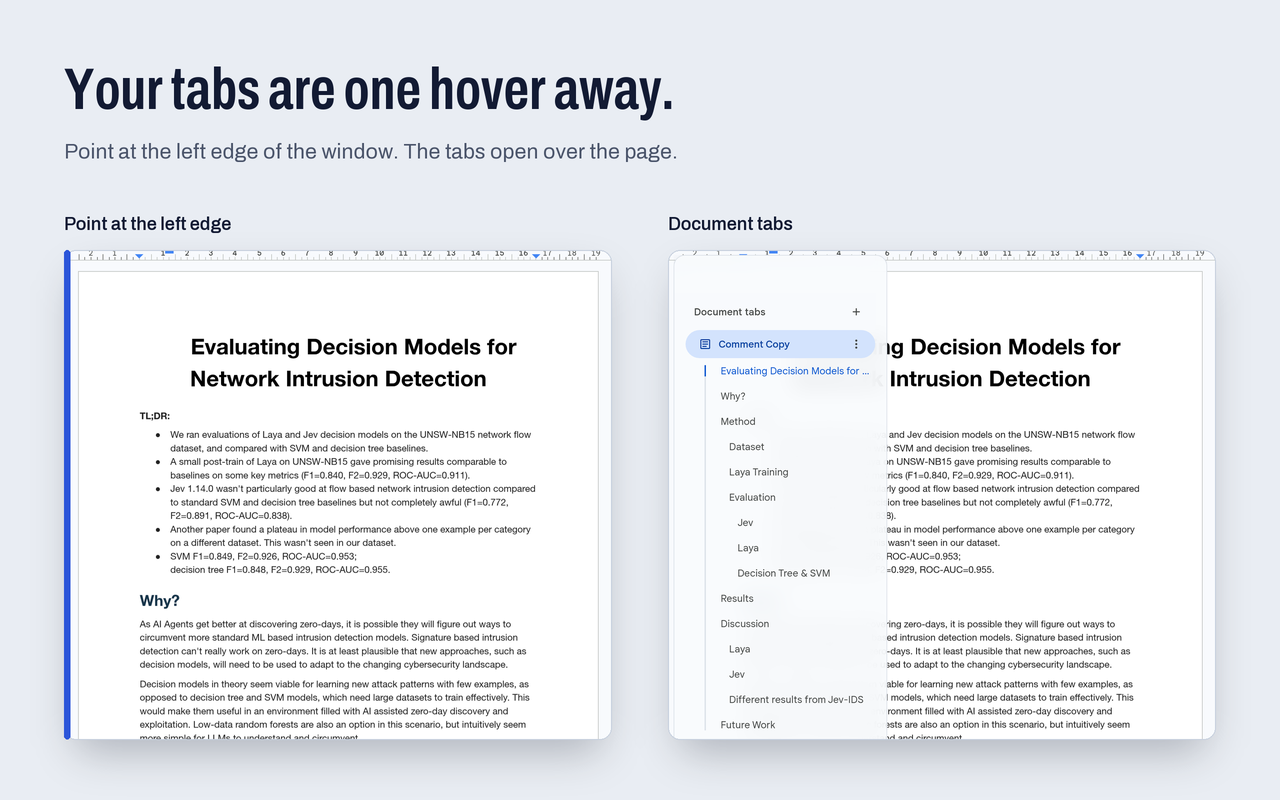
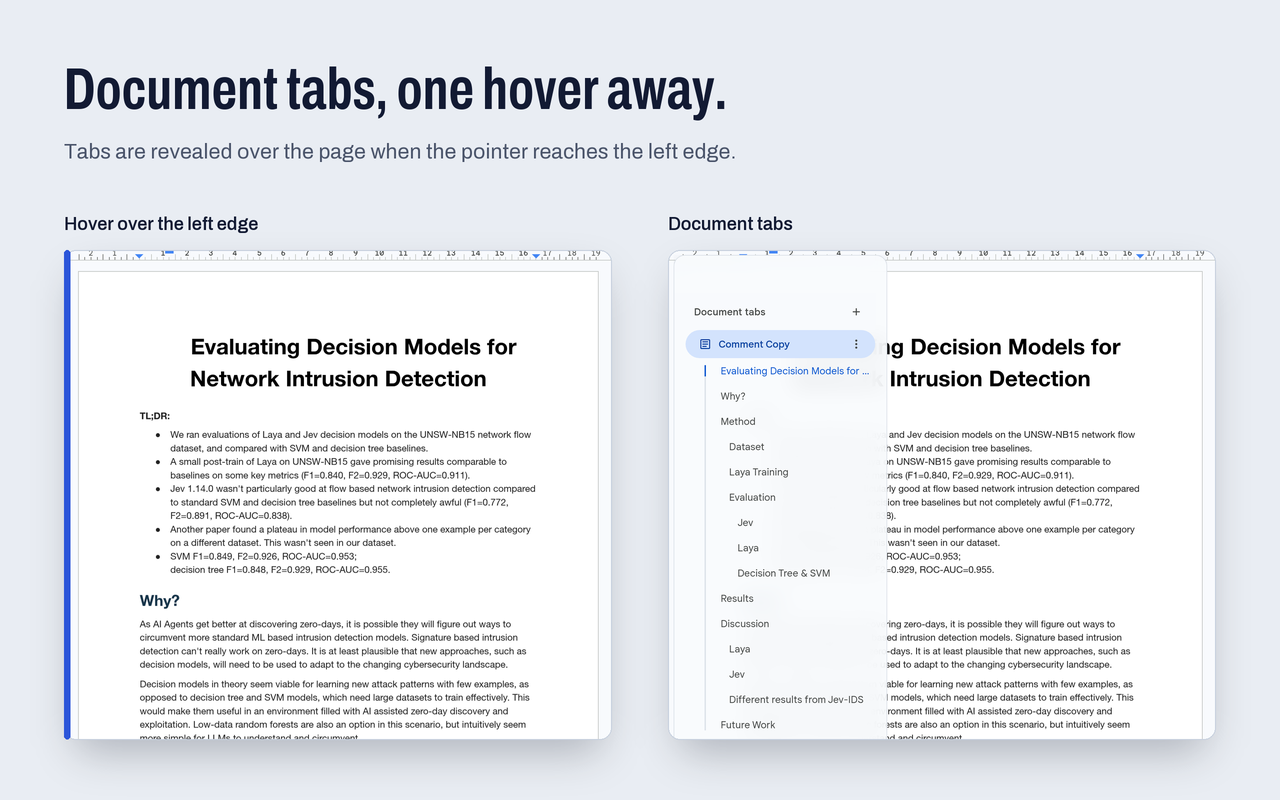
Use a more formal, passive tone in website and store copy

Changed region(s): [[0.0312, 0.0938, 0.5625, 0.2188], [0.0625, 0.25, 0.1875, 0.3125]]

diff --git a/site/index.html b/site/index.html
@@ -3,7 +3,7 @@
 <head>
   <meta charset="utf-8">
   <meta name="viewport" content="width=device-width, initial-scale=1">
-  <meta name="description" content="CompactDocs is a Chrome extension that makes Google Docs comfortable in half a screen. It tucks the side panels into the window edges and fits the page to the width you have.">
+  <meta name="description" content="CompactDocs is a Chrome extension for Google Docs in narrow windows. Side panels are moved to the window edges and the page is fitted to the available width.">
   <meta name="theme-color" content="#e9edf3">
   <title>CompactDocs for Google Docs</title>
   <link rel="canonical" href="https://anguswww.github.io/compactdocs-chrome-extension/">
@@ -32,35 +32,35 @@
           <button class="demo-edge" type="button" aria-pressed="false" aria-label="Show document tabs"></button>
         </div>
         <div class="ruler" style="--from:2.6%;--to:97.4%" aria-hidden="true"></div>
-        <figcaption><span class="demo-hint"><span class="hint-pointer">Point at the window’s left edge to open the document tabs.</span><span class="hint-touch">Tap the window’s left edge to open the document tabs.</span></span> <span>780&thinsp;px window. The whole page fits.</span></figcaption>
+        <figcaption><span class="demo-hint"><span class="hint-pointer">Hover over the left edge of the window to reveal the document tabs.</span><span class="hint-touch">Tap the left edge of the window to reveal the document tabs.</span></span> <span>780&thinsp;px window, full page width visible.</span></figcaption>
       </figure>
 
       <div class="hero-copy">
-        <h1 id="hero-title">Google Docs, made for half a screen.</h1>
-        <p class="lead">Keep a document open beside your research, notes or a call. CompactDocs tucks the side panels into the window’s edges and fits the page to the width you have.</p>
+        <h1 id="hero-title">Google Docs, fitted to narrow windows.</h1>
+        <p class="lead">Side panels are moved to the edges of the window, and the page is fitted to the available width. CompactDocs is designed for documents kept open beside other work.</p>
         <div class="actions">
           <a class="button" href="https://chromewebstore.google.com/detail/compactdocs/lilnjbpiikjfknobepdnlepjgalgdcfi">Add to Chrome</a>
           <a class="quiet-link" href="https://github.com/anguswww/compactdocs-chrome-extension/releases/latest">Download from GitHub</a>
         </div>
-        <p class="fine-print">Free on the Chrome Web Store, with automatic updates. Version 1.4.4.</p>
+        <p class="fine-print">Available free on the Chrome Web Store, with automatic updates. Current version: 1.4.4.</p>
       </div>
     </section>
 
     <section class="compare wrap" id="how-it-works" aria-labelledby="compare-title">
       <div class="section-head">
-        <h2 id="compare-title">Same window. More&nbsp;document.</h2>
-        <p>In a narrow window, Docs keeps its tabs column open and pushes the page off to the side. CompactDocs gives that room back to the page and selects Docs’ own Fit zoom.</p>
+        <h2 id="compare-title">More of the page, in the same&nbsp;window.</h2>
+        <p>In a narrow window, the document tabs column remains open and the page is pushed partly out of view. With CompactDocs, that space is returned to the page and Docs’ native Fit zoom is applied.</p>
       </div>
       <div class="pair">
         <figure>
           <div class="window"><img src="assets/docs-default-780.webp" width="1120" height="1292" alt="Google Docs without CompactDocs in the same 780-pixel window. The tabs column takes the left side and the page is cut off on the right." loading="lazy"></div>
           <div class="ruler" style="--from:38.6%;--to:100%" aria-hidden="true"></div>
-          <figcaption><strong>Without CompactDocs</strong> 59% of the page width is in view, at 100% zoom.</figcaption>
+          <figcaption><strong>Without CompactDocs</strong> 59% of the page width is visible at 100% zoom.</figcaption>
         </figure>
         <figure>
           <div class="window"><img src="assets/docs-fit-780.webp" width="1120" height="1292" alt="The same document with CompactDocs. The full page width is visible at Fit zoom." loading="lazy"></div>
           <div class="ruler" style="--from:2.6%;--to:97.4%" aria-hidden="true"></div>
-          <figcaption><strong>With CompactDocs</strong> The full page width is in view, at Fit zoom.</figcaption>
+          <figcaption><strong>With CompactDocs</strong> The full page width is visible at Fit zoom.</figcaption>
         </figure>
       </div>
     </section>
@@ -75,21 +75,21 @@
         <div class="mini-labels"><span>Document tabs and outline</span><span>Google side panel</span></div>
       </div>
       <div class="edges-copy">
-        <h2 id="edges-title">Panels wait at the edges.</h2>
-        <p>Point anywhere along the left edge of the window for document tabs and the outline, or the right edge for the Google side panel. The targets are invisible and run the full height of the window, so there’s nothing to aim for.</p>
-        <p>A panel opens over the page, so your text doesn’t move, and closes when you move away. A short delay stops it opening when you’re just passing by.</p>
-        <p>From the keyboard, press <kbd>Tab</kbd> until an edge is focused and its panel opens. Press <kbd>Esc</kbd> to close it.</p>
+        <h2 id="edges-title">Panels are kept at the window edges.</h2>
+        <p>Document tabs and the outline are revealed from the left edge of the window. The Google side panel is revealed from the right edge. Each edge target is invisible and spans the full height of the window.</p>
+        <p>Panels are shown over the page, so the document does not shift, and are hidden when the pointer moves away. A short delay prevents accidental reveals.</p>
+        <p>Keyboard access is supported. A panel is opened when its edge receives focus with <kbd>Tab</kbd>, and closed with <kbd>Esc</kbd>.</p>
       </div>
     </section>
 
     <section class="settings wrap" aria-labelledby="settings-title">
       <div class="settings-copy">
-        <h2 id="settings-title">Three switches. That’s the whole setup.</h2>
-        <p>Open CompactDocs from the Chrome toolbar to turn each one on or off. They’re all on to start, and they’re saved in your browser.</p>
+        <h2 id="settings-title">Three settings, stored locally.</h2>
+        <p>Each setting can be changed from the CompactDocs toolbar popup. All three are enabled by default and are stored in the browser.</p>
         <dl class="settings-list">
-          <div><dt>Document tabs</dt><dd>Keep the tabs column tucked away. Reveal it at the left edge.</dd></div>
-          <div><dt>Google side panel</dt><dd>Keep the side panel tucked away. Reveal it at the right edge.</dd></div>
-          <div><dt>Fit page to window</dt><dd>Use Docs’ Fit zoom for paged documents in narrow windows. Choosing a zoom percentage yourself pauses it. Pageless documents keep their own zoom.</dd></div>
+          <div><dt>Document tabs</dt><dd>The tabs column is kept hidden and revealed at the left edge.</dd></div>
+          <div><dt>Google side panel</dt><dd>The side panel is kept hidden and revealed at the right edge.</dd></div>
+          <div><dt>Fit page to window</dt><dd>Docs’ native Fit zoom is applied to paged documents in narrow windows. Automatic fitting is paused when a zoom percentage is selected manually. Pageless documents retain their own zoom.</dd></div>
         </dl>
       </div>
       <figure class="popup-shot">
@@ -99,19 +99,19 @@
 
     <section class="install wrap" aria-labelledby="install-title">
       <div class="install-copy">
-        <h2 id="install-title">Make room for your next document.</h2>
+        <h2 id="install-title">Installation</h2>
         <ol class="steps">
-          <li>Add CompactDocs from the Chrome Web Store.</li>
-          <li>Reload any Google Docs documents you already have open.</li>
-          <li>Snap Chrome to one side of your screen and start writing.</li>
+          <li>Install CompactDocs from the Chrome Web Store.</li>
+          <li>Reload any Google Docs documents that are already open.</li>
+          <li>Position the Chrome window beside other work.</li>
         </ol>
         <a class="button" href="https://chromewebstore.google.com/detail/compactdocs/lilnjbpiikjfknobepdnlepjgalgdcfi">Add to Chrome</a>
-        <p class="fine-print">To install by hand, download the ZIP from <a href="https://github.com/anguswww/compactdocs-chrome-extension/releases/latest">GitHub releases</a> and extract it. In <code>chrome://extensions</code>, turn on Developer mode, choose <strong>Load unpacked</strong>, and select the folder. Changes to the Docs interface, and Docs in languages other than English, can affect compatibility.</p>
+        <p class="fine-print">For manual installation, the release ZIP is available from <a href="https://github.com/anguswww/compactdocs-chrome-extension/releases/latest">GitHub releases</a>. After extraction, Developer mode should be enabled in <code>chrome://extensions</code>, <strong>Load unpacked</strong> selected, and the extracted folder chosen. Compatibility may be affected by changes to the Docs interface and by interface languages other than English.</p>
       </div>
       <aside class="privacy-note" aria-labelledby="local-title">
-        <h3 id="local-title">Your documents stay yours.</h3>
-        <p>CompactDocs changes how Docs is laid out on your screen, never what’s in your document. It makes no network requests, runs no analytics and reads no document text.</p>
-        <a href="privacy.html">Read the privacy policy</a>
+        <h3 id="local-title">Document content is not accessed.</h3>
+        <p>CompactDocs changes only how Docs is laid out on screen. Document content is not modified or read, no network requests are made, and no analytics are collected.</p>
+        <a href="privacy.html">Privacy policy</a>
       </aside>
     </section>
   </main>

diff --git a/scripts/generate-store-assets.py b/scripts/generate-store-assets.py
@@ -172,9 +172,9 @@ def main():
 
     # 1. The hover reveal: the same window before and while pointing at the edge.
     im = canvas()
-    text(im, (64, 58), 'Your tabs are one hover away.', 58, **HEAD)
-    text(im, (64, 140), 'Point at the left edge of the window. The tabs open over the page.', 21, GRAPHITE)
-    text(im, (64, 214), 'Point at the left edge', 18, INK, **LABEL)
+    text(im, (64, 58), 'Document tabs, one hover away.', 58, **HEAD)
+    text(im, (64, 140), 'Tabs are revealed over the page when the pointer reaches the left edge.', 21, GRAPHITE)
+    text(im, (64, 214), 'Hover over the left edge', 18, INK, **LABEL)
     text(im, (668, 214), 'Document tabs', 18, INK, **LABEL)
     window(im, 'fit-780', (64, 250, 548, 490), crop_top=114)
     window(im, 'fit-tabs-780', (668, 250, 548, 490), crop_top=114)
@@ -185,15 +185,15 @@ def main():
     # 2. The pitch: a narrow Docs window, tiled beside the headline.
     im = canvas()
     window(im, 'fit-620', (64, 64, 520, 736), crop_top=0, shadow=True)
-    bottom = text(im, (664, 214), 'Google Docs,\nmade for half\na screen.', 80, spacing=0.98, **HEAD)
-    text(im, (666, bottom + 30), 'Side panels tucked into the edges.\nThe page fitted to your window.', 23, GRAPHITE, spacing=1.45)
+    bottom = text(im, (664, 214), 'Google Docs,\nfitted to narrow\nwindows.', 80, spacing=0.98, **HEAD)
+    text(im, (666, bottom + 30), 'Side panels are moved to the window edges.\nThe page is fitted to the available width.', 23, GRAPHITE, spacing=1.45)
     wordmark(im, 670, 690, 20)
     save(im, 'screenshots/02-more-room.png')
 
     # 3. Before and after, at the same window width, with measured page spans.
     im = canvas()
-    text(im, (64, 58), 'Same window. More document.', 58, **HEAD)
-    text(im, (64, 140), f'Both windows are 780 pixels wide. Without CompactDocs, {visible}% of the page is in view.', 21, GRAPHITE)
+    text(im, (64, 58), 'More of the page, in the same window.', 58, **HEAD)
+    text(im, (64, 140), f'Both windows are 780 pixels wide. Without CompactDocs, {visible}% of the page width is visible.', 21, GRAPHITE)
     text(im, (64, 214), 'Without CompactDocs', 18, GRAPHITE, **LABEL)
     text(im, (668, 214), 'With CompactDocs', 18, COBALT, weight=620, width=100)
     window(im, 'default-780', (64, 250, 548, 466), shadow=False)
@@ -205,8 +205,8 @@ def main():
     # 4. Settings: the real popup over the fitted window.
     im = canvas()
     window(im, 'fit-620', (560, 64, 520, 736))
-    bottom = text(im, (64, 214), 'Three switches.\nThat’s the\nwhole setup.', 64, spacing=1.0, **HEAD)
-    text(im, (66, bottom + 30), 'Tuck the tabs, tuck the side panel,\nfit the page. Saved in your browser.', 22, GRAPHITE, spacing=1.45)
+    bottom = text(im, (64, 214), 'Three settings,\nstored locally.', 64, spacing=1.0, **HEAD)
+    text(im, (66, bottom + 30), 'Tabs, side panel and page fitting can\neach be enabled from the toolbar popup.', 22, GRAPHITE, spacing=1.45)
     popup = source('popup')  # Already 2x: 320 x 455 CSS px.
     px, py = 900 * S, 300 * S
     layer = Image.new('RGBA', im.size)
@@ -222,15 +222,15 @@ def main():
     im = canvas(440, 280, COBALT)
     mark = icon(84 * S)
     im.paste(mark, (14 * S, 14 * S), mark)
-    text(im, (30, 112), 'Google Docs,\nmade for half\na screen.', 40, '#ffffff', spacing=1.0, **HEAD)
+    text(im, (30, 112), 'Google Docs,\nfitted to narrow\nwindows.', 40, '#ffffff', spacing=1.0, **HEAD)
     save(im, 'promotional/small-promo.png')
     im = canvas(1400, 560, COBALT)
     window(im, 'fit-620', (860, 72, 460, 488), radius=14, shadow=False)
     mark = icon(96 * S)
     im.paste(mark, (60 * S, 52 * S), mark)
     text(im, (150, 82), 'CompactDocs', 30, '#ffffff', weight=650, width=88)
-    text(im, (80, 200), 'Google Docs, made\nfor half a screen.', 84, '#ffffff', spacing=1.0, **HEAD)
-    text(im, (82, 410), 'Side panels tucked into the edges. The page fitted to your window.', 24, TINT)
+    text(im, (80, 200), 'Google Docs, fitted\nto narrow windows.', 84, '#ffffff', spacing=1.0, **HEAD)
+    text(im, (82, 410), 'Side panels are moved to the window edges. The page is fitted to the available width.', 24, TINT)
     save(im, 'promotional/marquee-promo.png')
 
     # Website images, from the same verified captures.

diff --git a/store/SCREENSHOTS.md b/store/SCREENSHOTS.md
@@ -2,10 +2,10 @@
 
 The four 1280 × 800 screenshots and two promotional tiles use the website's design system: desk `#e9edf3`, ink `#121a33`, graphite `#4b556b`, rule `#c7d0de`, cobalt `#2b55d9`, and Archivo (variable; headings at weight 640, width 70). `listing-reference.json` records each image's headline and labels, and the listing image it replaces. The generator checks that copy is present.
 
-1. `01-hover-tabs.png`: “Your tabs are one hover away.” The same window twice, with a cobalt edge marker on the closed view and the tabs overlay open on the other.
-2. `02-more-room.png`: the 620 px window tiled left, “Google Docs, made for half a screen.” right.
-3. `03-reclaim-space.png`: “Same window. More document.” Native 100% against CompactDocs at the same 780 px width, with rulers marking the measured visible page span.
-4. `04-three-settings.png`: “Three switches. That’s the whole setup.” The real settings popup over the fitted window.
+1. `01-hover-tabs.png`: “Document tabs, one hover away.” The same window twice, with a cobalt edge marker on the closed view and the tabs overlay open on the other.
+2. `02-more-room.png`: the 620 px window tiled left, “Google Docs, fitted to narrow windows.” right.
+3. `03-reclaim-space.png`: “More of the page, in the same window.” Native 100% against CompactDocs at the same 780 px width, with rulers marking the measured visible page span.
+4. `04-three-settings.png`: “Three settings, stored locally.” The real settings popup over the fitted window.
 
 ## Captures
 
